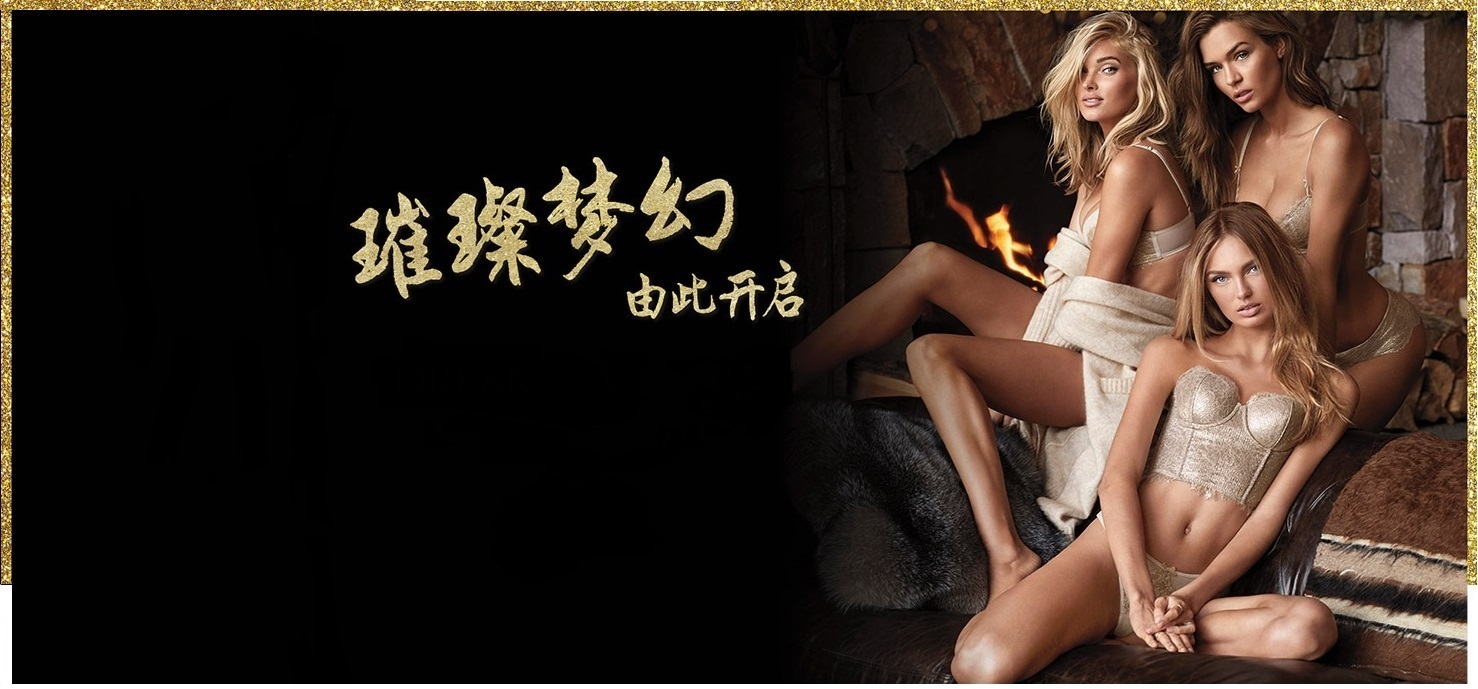
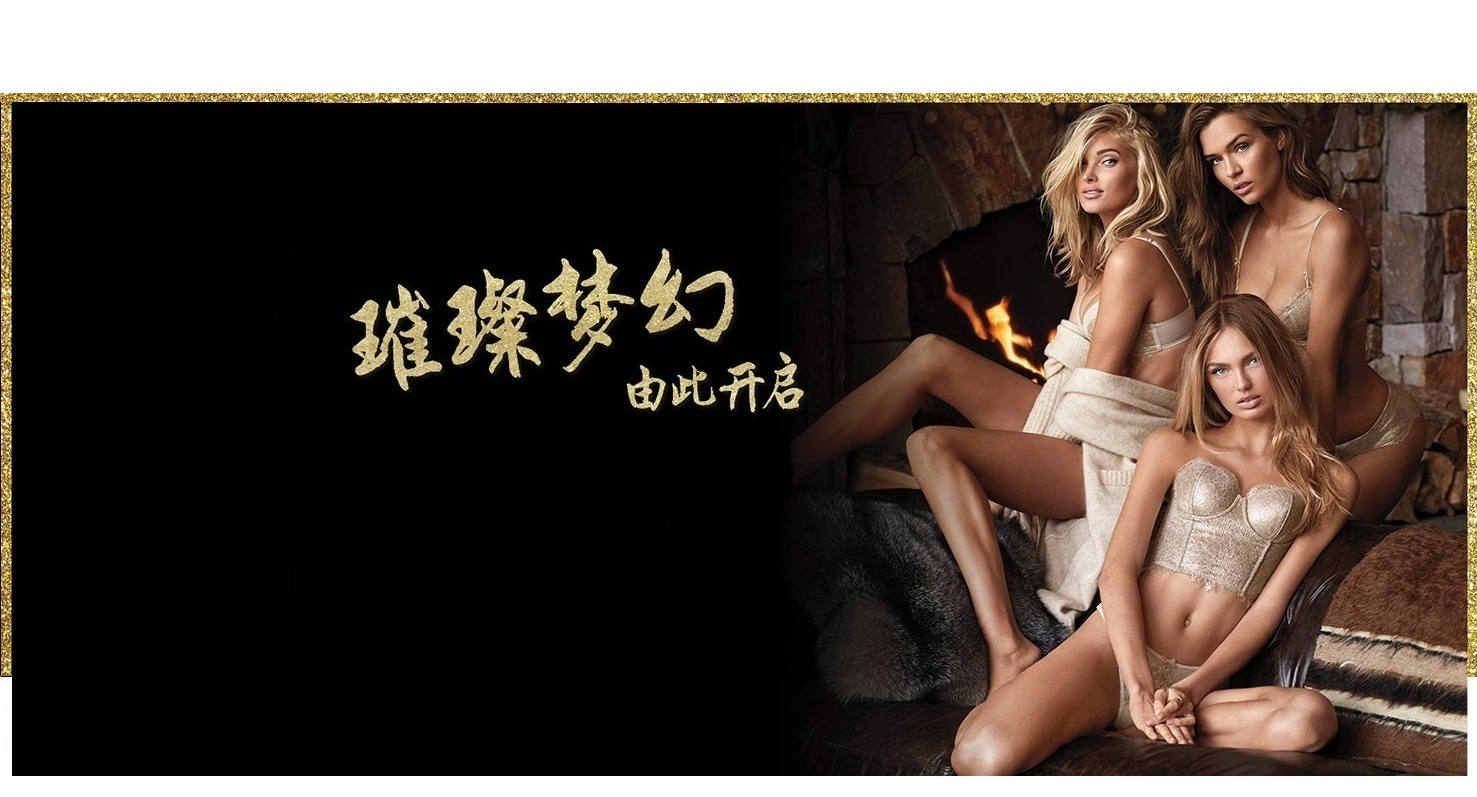
模特名单页面微调

diff --git a/css/weimimingdan.css b/css/weimimingdan.css
@@ -12,7 +12,7 @@
 	width: 234px;
 	background-color: black;
 	position: absolute;
-	top: 100px;
+	top: 170px;
 	left: 10px;
 }
 
@@ -47,7 +47,7 @@
 }
 .content_01{
 	height: 250px;
-	width: 150px;
+	width: 100px;
 	background-color: black;
 	position: absolute;
 	top: 40px;
@@ -62,7 +62,7 @@
 }
 .content_02{
 	height: 250px;
-	width: 150px;
+	width: 132px;
 	background-color: black;
 	position: absolute;
 	top: 40px;
@@ -77,7 +77,7 @@
 }
 .content_03{
 	height: 250px;
-	width: 150px;
+	width: 132px;
 	background-color: black;
 	position: absolute;
 	top: 40px;
@@ -92,7 +92,7 @@
 }
 .content_04{
 	height: 250px;
-	width: 150px;
+	width: 132px;
 	background-color: black;
 	position: absolute;
 	top: 40px;
@@ -108,7 +108,7 @@
 
 .content_05{
 	height: 250px;
-	width: 150px;
+	width: 132px;
 	background-color: black;
 	position: absolute;
 	top: 40px;
@@ -124,7 +124,7 @@
 
 .content_06{
 	height: 250px;
-	width: 150px;
+	width: 132px;
 	background-color: black;
 	position: absolute;
 	top: 40px;
@@ -146,5 +146,8 @@
 }
 .he_img{
 	width: 100%;
+}
+.list_ul li:hover{
+	color:#ff78c7;
 }
 

diff --git a/component/weimimingdan.html b/component/weimimingdan.html
@@ -101,9 +101,7 @@
 						<br /><br />
 						卡莉·克劳斯Karlie Kloss
 						<br /><br />
-						梅根·威廉姆斯Megan Williams
-						<br /><br />
-						布鲁纳·利奥Bruna Lirio
+						梅根·威廉姆斯Megan Williams	
 					</div></li>
 				</ul>
 
